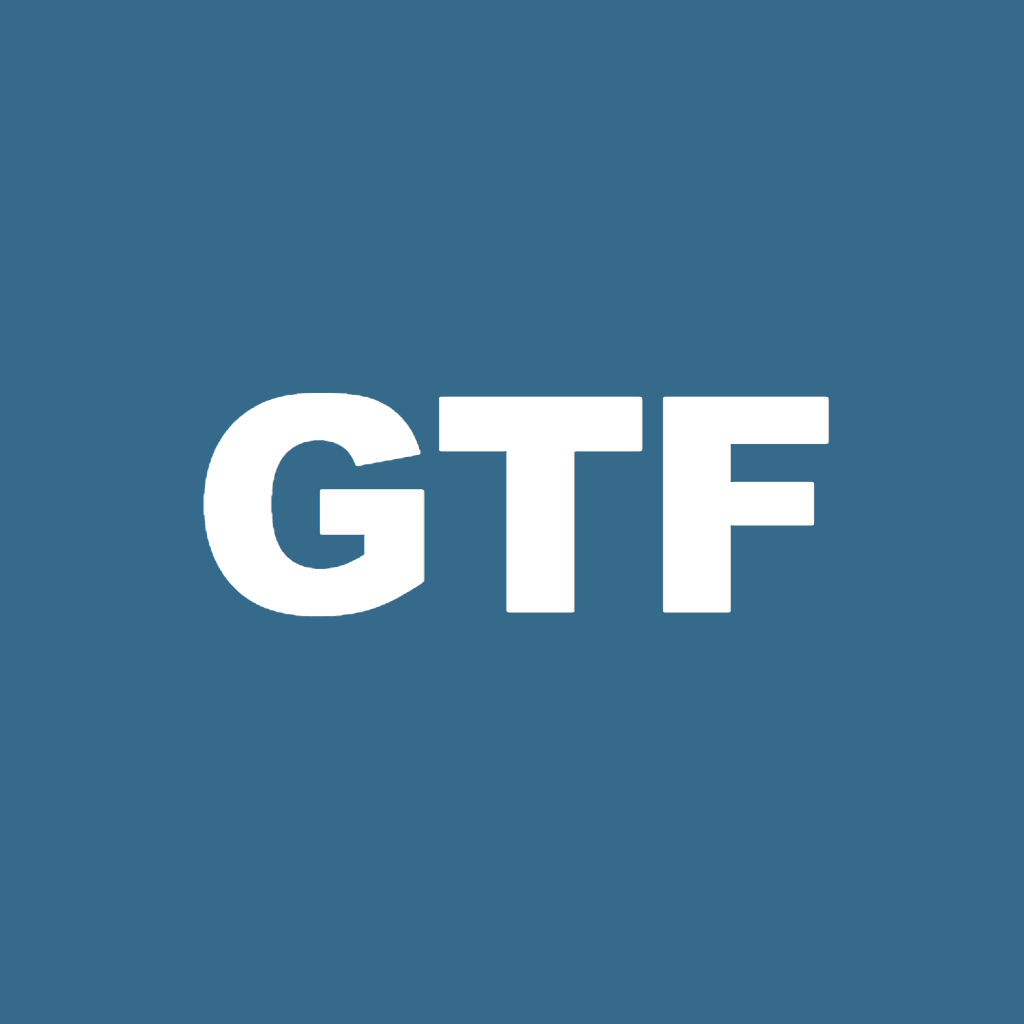
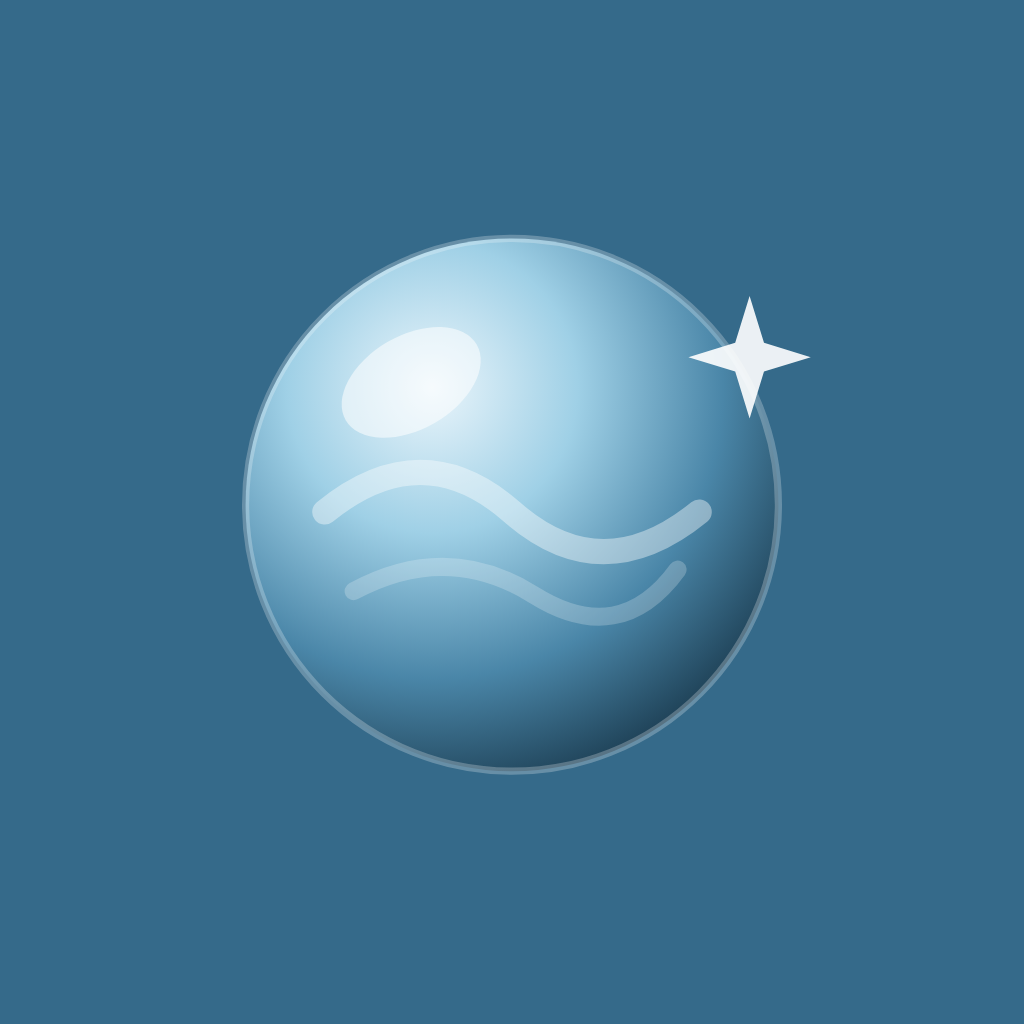
design: uygulama ikonu kristal küreye çevrildi
Kullanıcı isteği: "ikonumuza karar verdim galiba geleceği görmek için
kullanılan küre olsun çizgifilmlerdeki." Önceki ikon sadece düz "GTF"
yazısıydı (marka adı zaten "Guess the Future" olarak değiştirilmişti,
bkz. app-name-guess-the-future geçmişi — ikon hâlâ eski kısaltmayı
taşıyordu).

Yeni tasarım: camsı gradyanlı bir kristal küre (iç içe hafif dalga/sis
çizgileri + üstte parlama + yanında küçük bir parıltı yıldızı) —
mevcut marka mavisi paletiyle (#4a86a8 → #1d3f54) uyumlu, tek başına
güçlü bir siluet, 48px'te bile okunur kalıyor (doğrulandı).

scripts/icon-assets/*.html (mevcut /browse render pipeline'ı) ve
assets/*.png (icon, icon-foreground, splash — icon-background solid
renk olduğu için değişmedi) güncellendi. public/favicon.svg da aynı
küreyle eşleşecek şekilde yeniden çizildi (önceden farklı bir "onay
rozeti" motifi kullanıyordu — marka tutarlılığı için).

/browse ile hem tam boy hem küçük boy (favicon ölçeği) görsel olarak
doğrulandı. Build temiz.

Not: ios/android klasörlerindeki platform ikon setleri bu yeni
assets/*.png'lerden yeniden üretilmeyi bekliyor (proje bu turda bir
@capacitor/assets pipeline'ı içermiyor, elle/ayrı bir adım).

Claude-Session: https://claude.ai/code/session_01PprrgqpcXCb3DgL3UrLiqp

Changed region(s): [[0.1875, 0.2188, 0.8125, 0.7812]]

diff --git a/scripts/icon-assets/icon-flat.html b/scripts/icon-assets/icon-flat.html
@@ -12,18 +12,29 @@
     align-items: center;
     justify-content: center;
   }
-  #mark {
-    font-family: Arial, Helvetica, sans-serif;
-    font-weight: 800;
-    font-size: 300px;
-    line-height: 1;
-    letter-spacing: -8px;
-    color: #ffffff;
-    transform: translateY(-18px);
-  }
 </style>
 </head>
 <body>
-<div id="canvas"><span id="mark">GTF</span></div>
+<div id="canvas">
+  <!-- Kristal küre: geleceği görmek için kullanılan klasik çizgifilm
+       küresi — kullanıcı kararı ("çizgifilmlerdeki geleceği görmek için
+       kullanılan küre olsun"). Önceki "GTF" yazı-işareti yerine. -->
+  <svg width="720" height="720" viewBox="0 0 200 200" xmlns="http://www.w3.org/2000/svg">
+    <defs>
+      <radialGradient id="ball" cx="35%" cy="28%" r="78%">
+        <stop offset="0%" stop-color="#eaf5fb"/>
+        <stop offset="35%" stop-color="#9fd0e6"/>
+        <stop offset="70%" stop-color="#4a86a8"/>
+        <stop offset="100%" stop-color="#1d3f54"/>
+      </radialGradient>
+    </defs>
+    <circle cx="100" cy="98" r="74" fill="url(#ball)"/>
+    <circle cx="100" cy="98" r="74" fill="none" stroke="#ffffff" stroke-opacity="0.25" stroke-width="2"/>
+    <path d="M48 100 Q75 78 100 100 T152 100" stroke="#ffffff" stroke-opacity="0.4" stroke-width="7" fill="none" stroke-linecap="round"/>
+    <path d="M56 122 Q82 108 106 123 T146 116" stroke="#ffffff" stroke-opacity="0.22" stroke-width="5" fill="none" stroke-linecap="round"/>
+    <ellipse cx="72" cy="64" rx="21" ry="13" fill="#ffffff" fill-opacity="0.55" transform="rotate(-30 72 64)"/>
+    <path d="M166 40 L170 53 L183 57 L170 61 L166 74 L162 61 L149 57 L162 53 Z" fill="#ffffff" fill-opacity="0.9"/>
+  </svg>
+</div>
 </body>
 </html>

diff --git a/scripts/icon-assets/icon-foreground.html b/scripts/icon-assets/icon-foreground.html
@@ -12,18 +12,29 @@
     align-items: center;
     justify-content: center;
   }
-  #mark {
-    font-family: Arial, Helvetica, sans-serif;
-    font-weight: 800;
-    font-size: 220px;
-    line-height: 1;
-    letter-spacing: -6px;
-    color: #ffffff;
-    transform: translateY(-13px);
-  }
 </style>
 </head>
 <body>
-<div id="canvas"><span id="mark">GTF</span></div>
+<div id="canvas">
+  <!-- Android adaptive icon foreground katmanı — maske güvenli alanına
+       sığması için icon-flat'e göre küçültülmüş (bkz. eski "GTF" işaretinin
+       300->220 oranı, ~0.73). -->
+  <svg width="528" height="528" viewBox="0 0 200 200" xmlns="http://www.w3.org/2000/svg">
+    <defs>
+      <radialGradient id="ball" cx="35%" cy="28%" r="78%">
+        <stop offset="0%" stop-color="#eaf5fb"/>
+        <stop offset="35%" stop-color="#9fd0e6"/>
+        <stop offset="70%" stop-color="#4a86a8"/>
+        <stop offset="100%" stop-color="#1d3f54"/>
+      </radialGradient>
+    </defs>
+    <circle cx="100" cy="98" r="74" fill="url(#ball)"/>
+    <circle cx="100" cy="98" r="74" fill="none" stroke="#ffffff" stroke-opacity="0.25" stroke-width="2"/>
+    <path d="M48 100 Q75 78 100 100 T152 100" stroke="#ffffff" stroke-opacity="0.4" stroke-width="7" fill="none" stroke-linecap="round"/>
+    <path d="M56 122 Q82 108 106 123 T146 116" stroke="#ffffff" stroke-opacity="0.22" stroke-width="5" fill="none" stroke-linecap="round"/>
+    <ellipse cx="72" cy="64" rx="21" ry="13" fill="#ffffff" fill-opacity="0.55" transform="rotate(-30 72 64)"/>
+    <path d="M166 40 L170 53 L183 57 L170 61 L166 74 L162 61 L149 57 L162 53 Z" fill="#ffffff" fill-opacity="0.9"/>
+  </svg>
+</div>
 </body>
 </html>

diff --git a/scripts/icon-assets/splash.html b/scripts/icon-assets/splash.html
@@ -22,18 +22,26 @@
     justify-content: center;
     box-shadow: 0 20px 60px rgba(23, 43, 58, 0.18);
   }
-  #mark {
-    font-family: Arial, Helvetica, sans-serif;
-    font-weight: 800;
-    font-size: 150px;
-    line-height: 1;
-    letter-spacing: -6px;
-    color: #ffffff;
-    transform: translateY(-9px);
-  }
 </style>
 </head>
 <body>
-<div id="canvas"><div id="badge"><span id="mark">GTF</span></div></div>
+<div id="canvas"><div id="badge">
+  <svg width="300" height="300" viewBox="0 0 200 200" xmlns="http://www.w3.org/2000/svg">
+    <defs>
+      <radialGradient id="ball" cx="35%" cy="28%" r="78%">
+        <stop offset="0%" stop-color="#eaf5fb"/>
+        <stop offset="35%" stop-color="#9fd0e6"/>
+        <stop offset="70%" stop-color="#4a86a8"/>
+        <stop offset="100%" stop-color="#1d3f54"/>
+      </radialGradient>
+    </defs>
+    <circle cx="100" cy="98" r="74" fill="url(#ball)"/>
+    <circle cx="100" cy="98" r="74" fill="none" stroke="#ffffff" stroke-opacity="0.25" stroke-width="2"/>
+    <path d="M48 100 Q75 78 100 100 T152 100" stroke="#ffffff" stroke-opacity="0.4" stroke-width="7" fill="none" stroke-linecap="round"/>
+    <path d="M56 122 Q82 108 106 123 T146 116" stroke="#ffffff" stroke-opacity="0.22" stroke-width="5" fill="none" stroke-linecap="round"/>
+    <ellipse cx="72" cy="64" rx="21" ry="13" fill="#ffffff" fill-opacity="0.55" transform="rotate(-30 72 64)"/>
+    <path d="M166 40 L170 53 L183 57 L170 61 L166 74 L162 61 L149 57 L162 53 Z" fill="#ffffff" fill-opacity="0.9"/>
+  </svg>
+</div></div>
 </body>
 </html>
